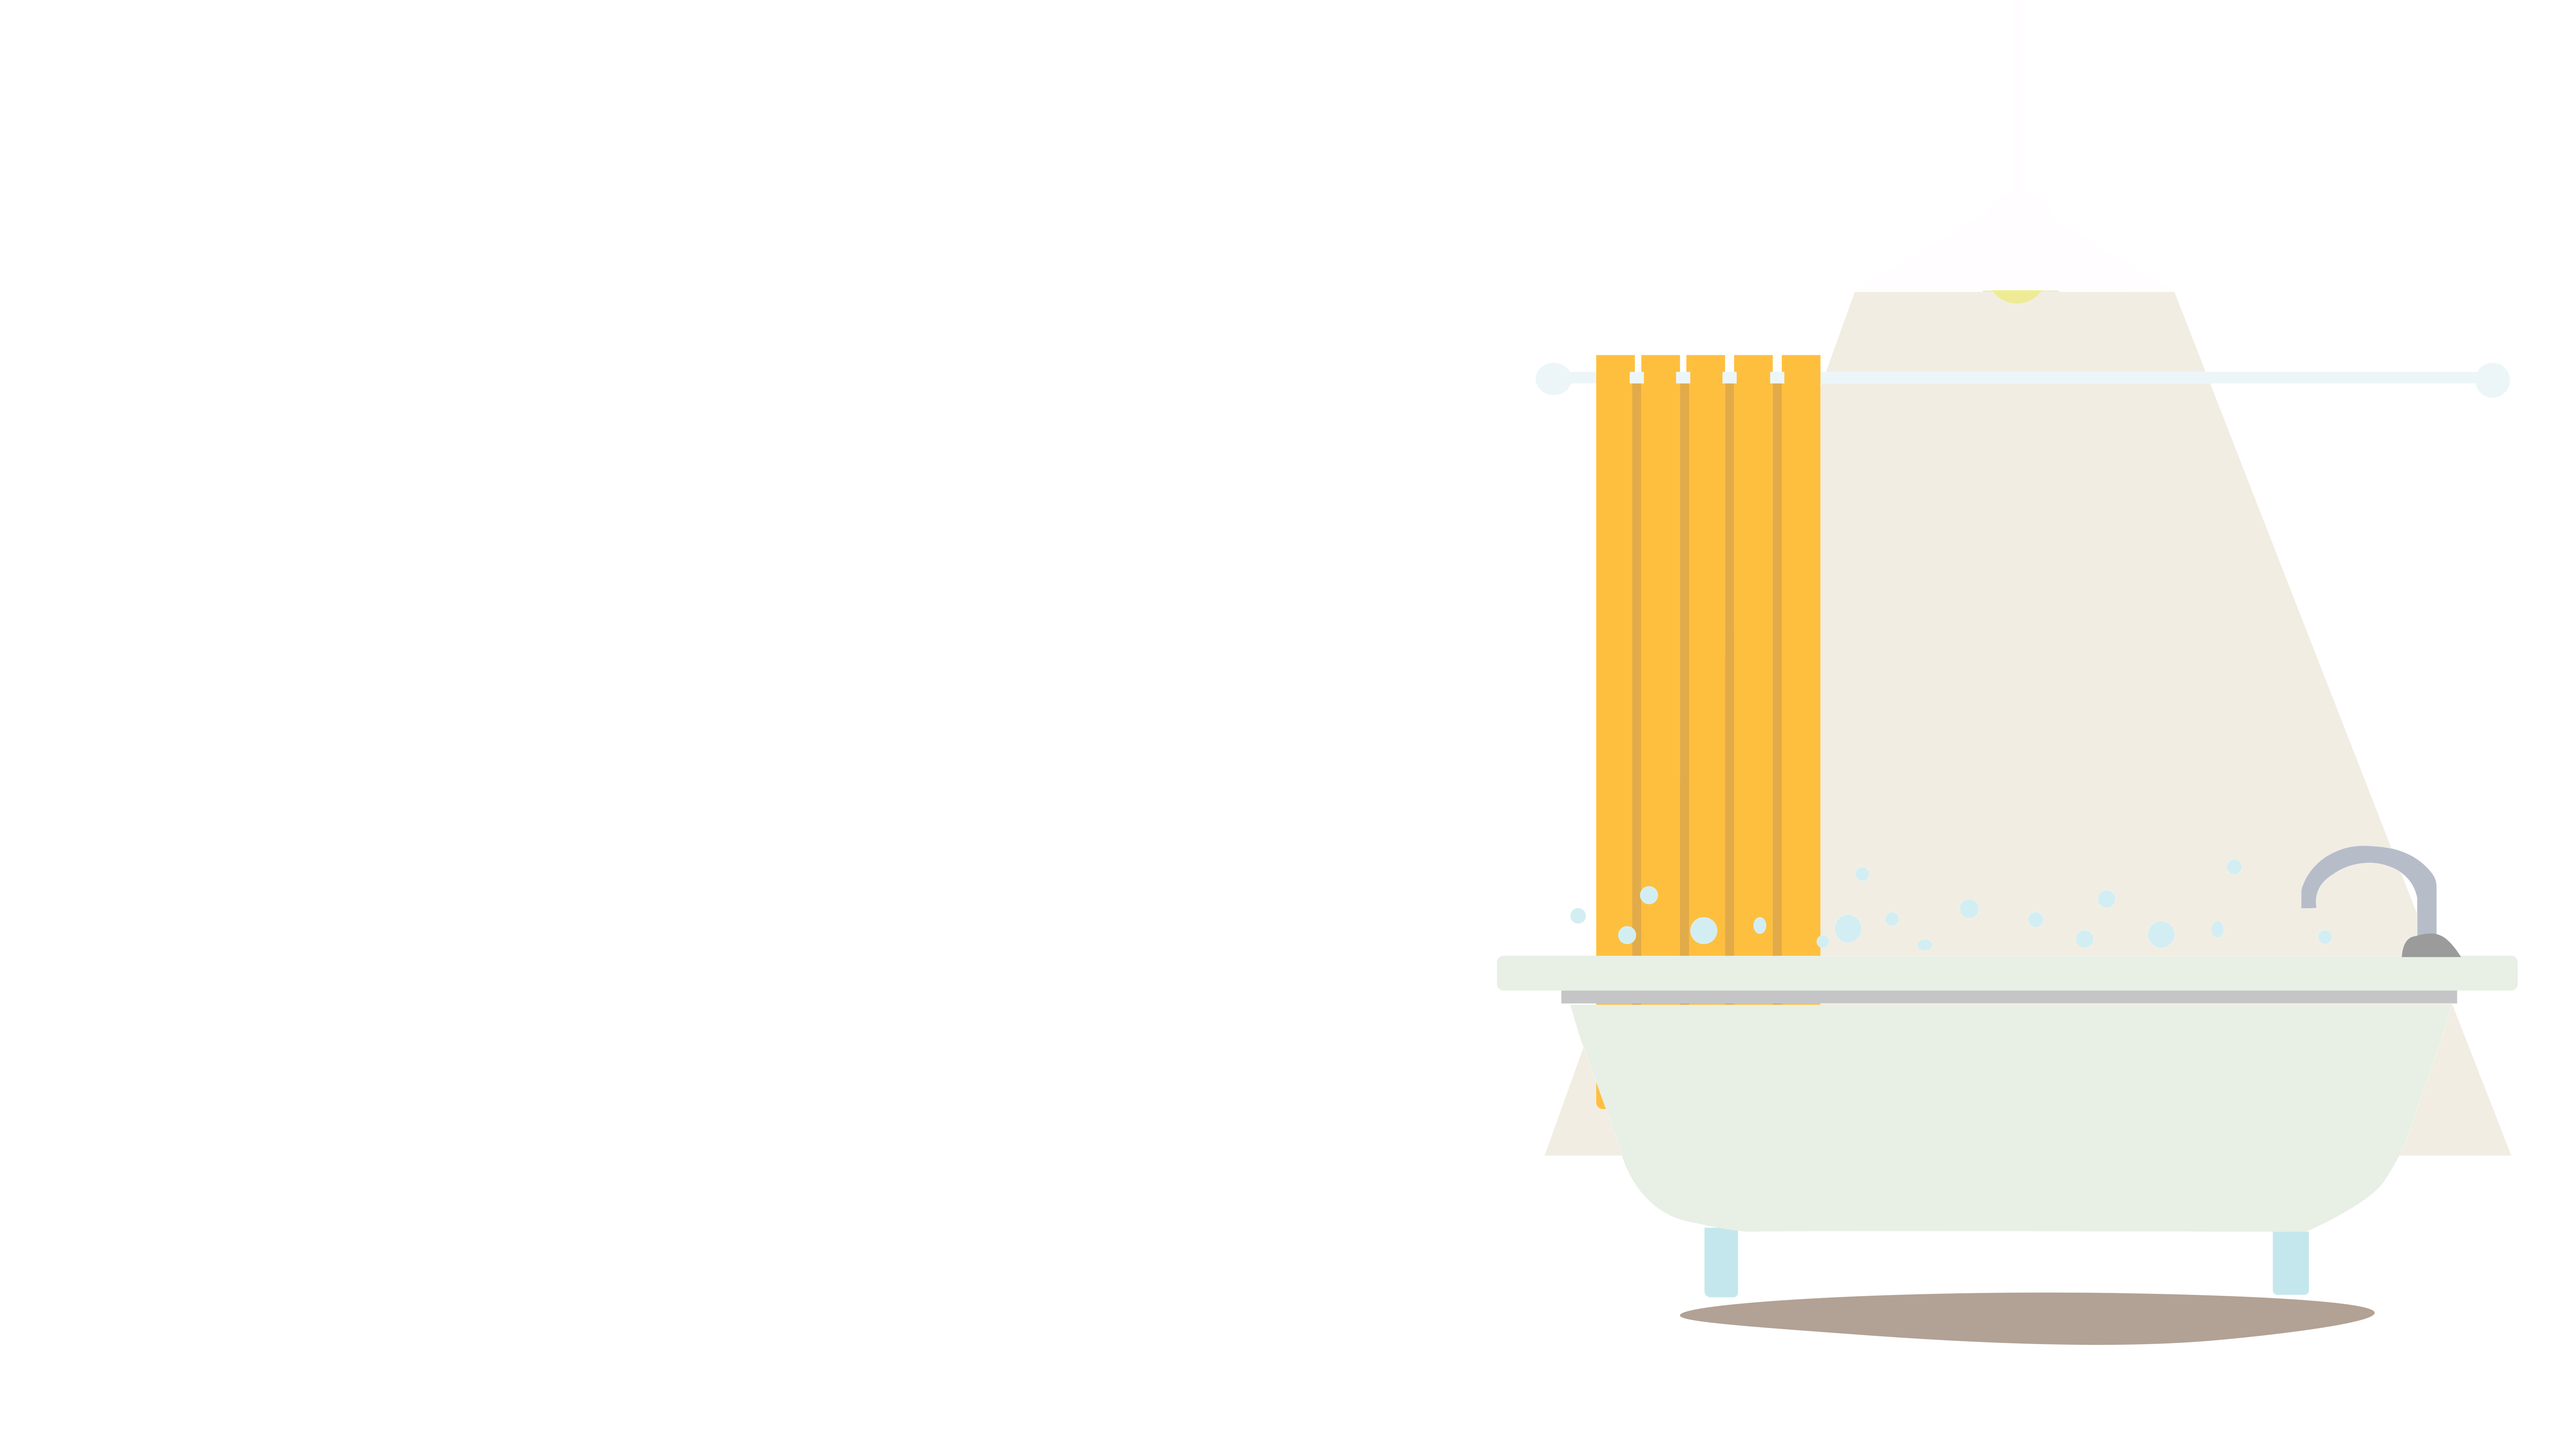
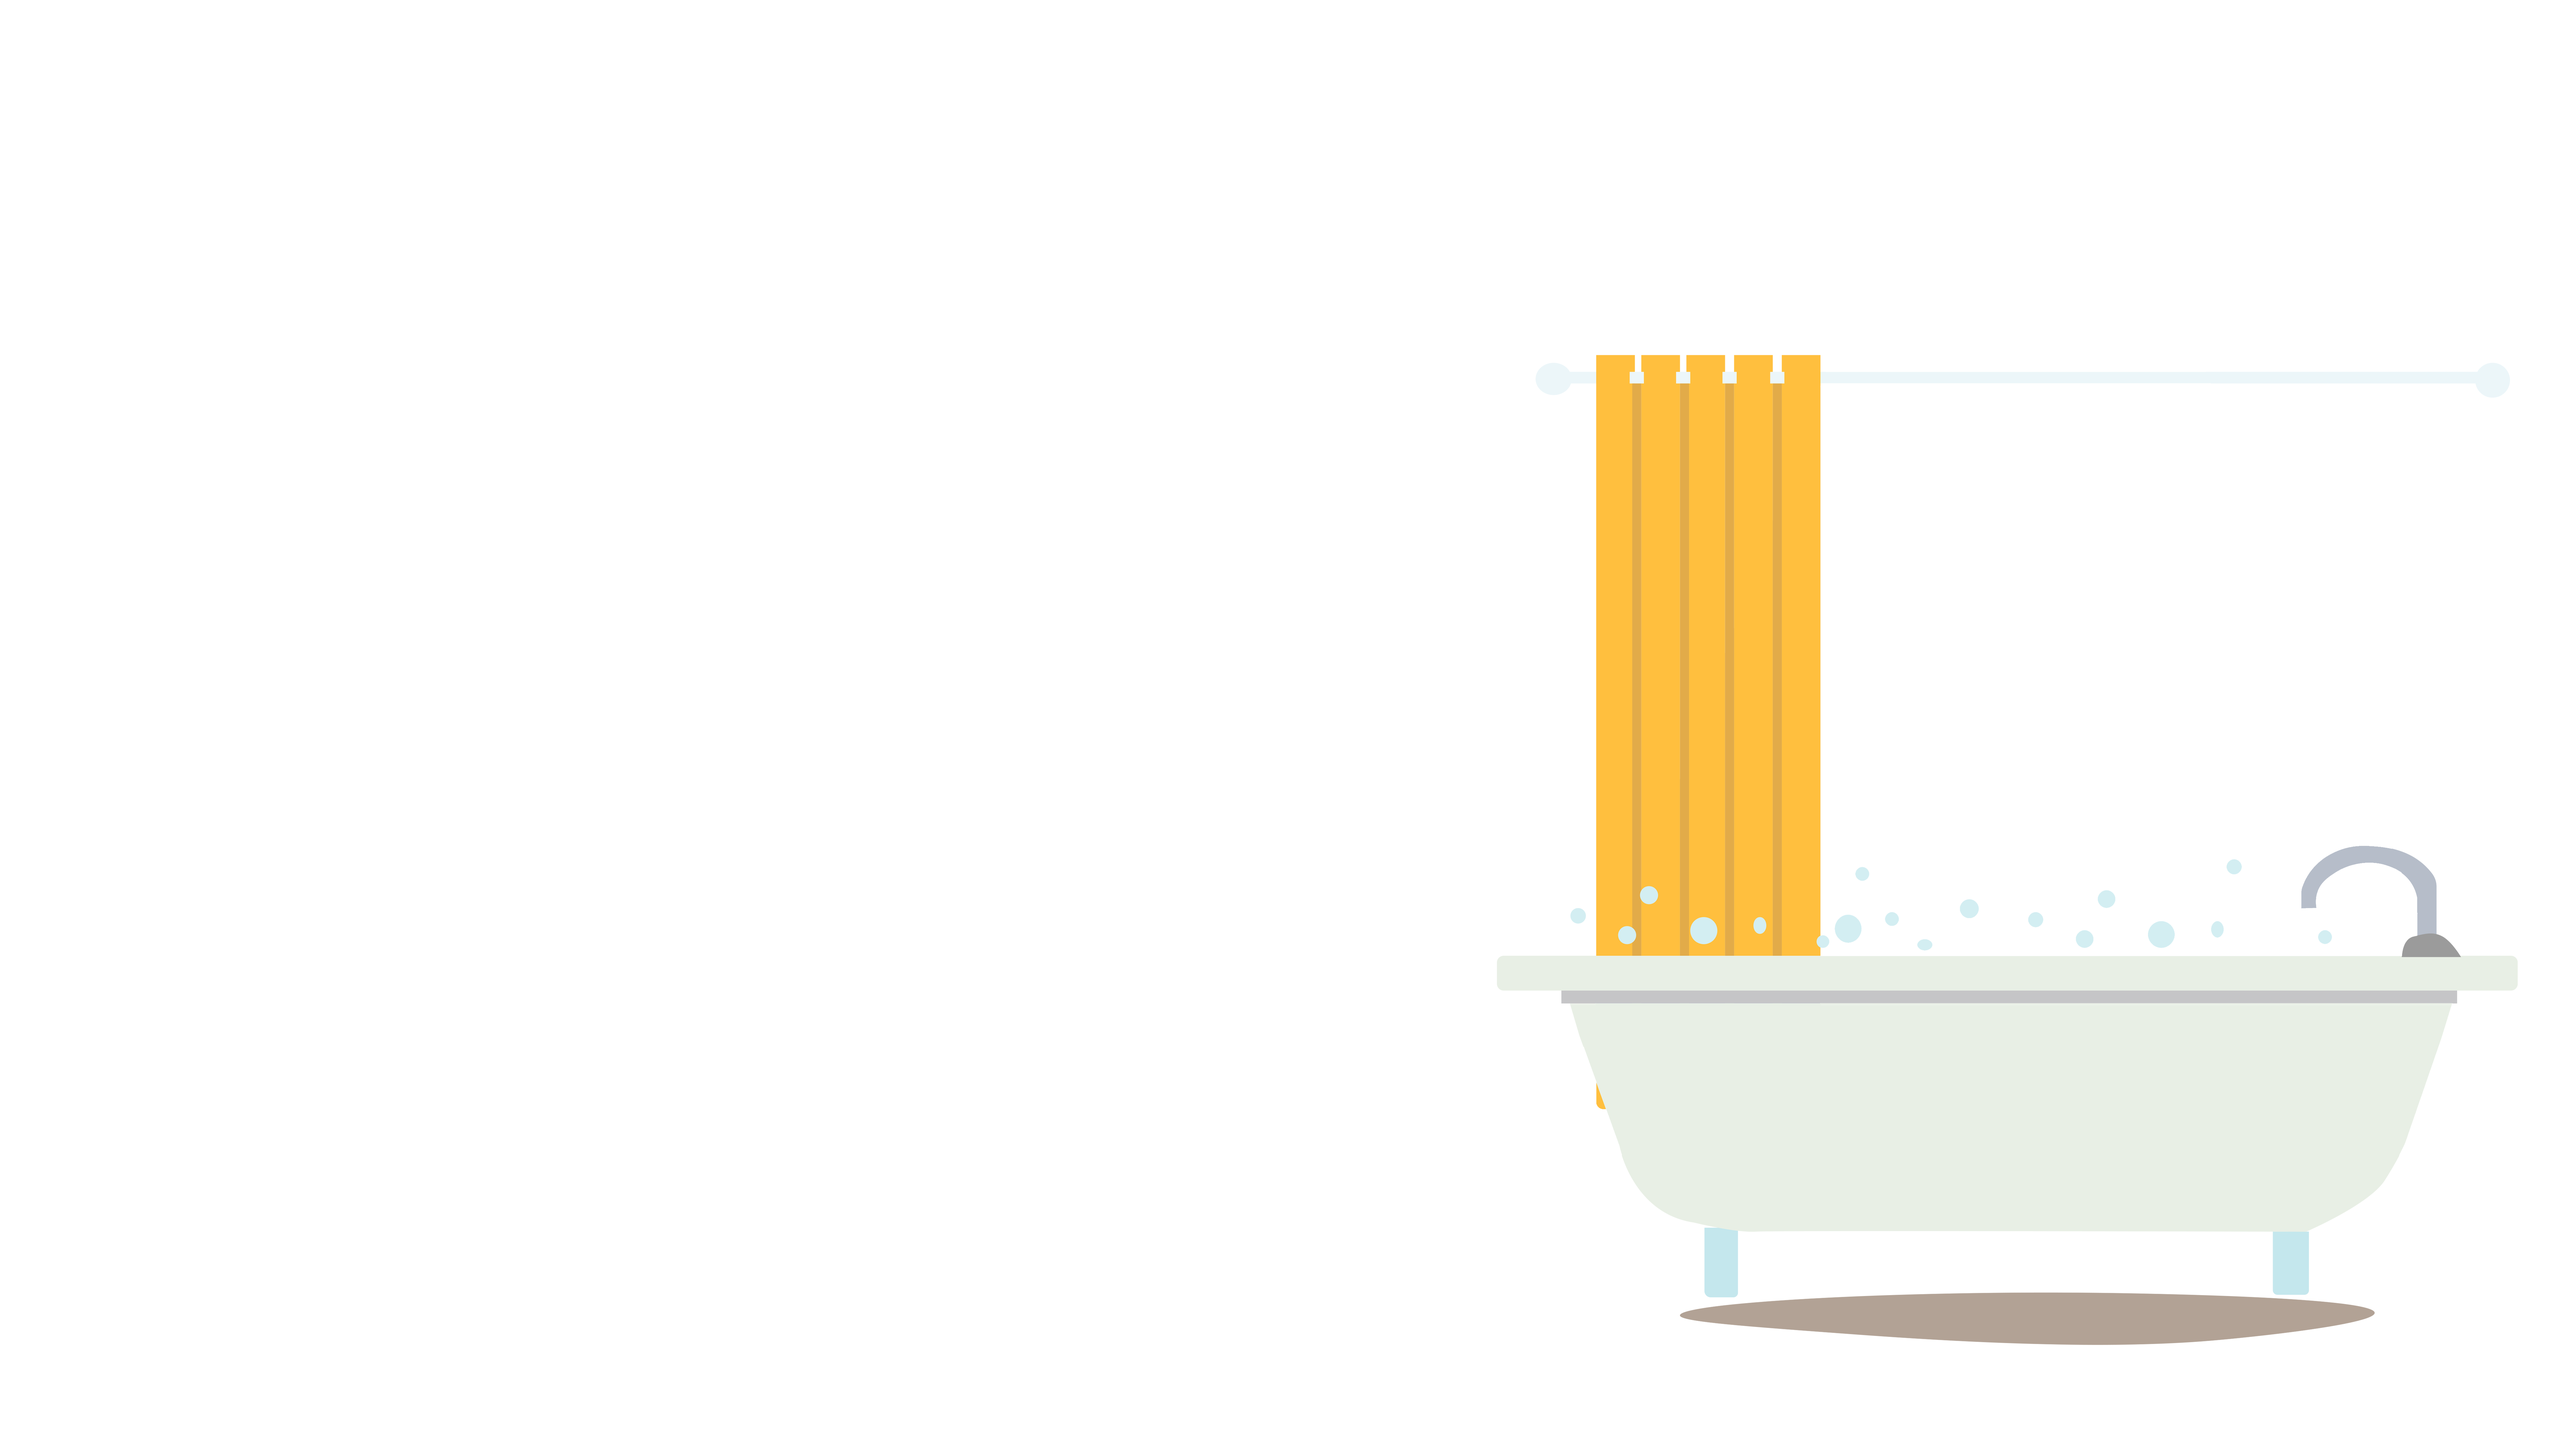
avancement sdb et correction pages php

Changed region(s): [[0.6875, 0.1867, 0.9375, 0.6844], [0.9375, 0.6844, 0.9688, 0.8089], [0.5938, 0.7156, 0.625, 0.8089]]

diff --git a/pages/salledebain/script.js b/pages/salledebain/script.js
@@ -1,35 +1,44 @@
 $(document).ready(function () {
-
-    $(':is(.douche,.baignoire)').css('opacity', '1');
+    $('button').css('opacity', '1');
+    const prenom = sessionStorage.getItem('prenom');
     setTimeout(() => {
         $('.douche').css("width", $('.baignoire').innerWidth() + "px")
-    }, 10);
+    }, 2000);
 
 
-    $('.elements *').click(function () {
+    $('.baignoire').add('.douche').click(function () {
         if ($(this).attr("class") == 'douche') {
-            $('.div1 p').html("Très bon choix ! La douche va économiser beaucoup plus d'eau contrairement à un bain !")
+            $('.div1 p').text(`Très bon choix ${prenom} ! La douche va économiser beaucoup plus d'eau contrairement à un bain !`);
+            $('.tochange').last().fadeOut("slow")
         } else if ($(this).attr("class") == 'baignoire') {
             $('.div1 p').text("La douche aurait économisé beaucoup plus d'eau contrairement à un bain, c'est dommage !")
+            $('.tochange').first().fadeOut("slow")
         }
-        const element = $(this).attr("class");
-        console.log(`url("../../ressources/salledebain/sdb${element}.png")`)
-        // $('body').css({
-        //     'background-image': `url("../../ressources/salledebain/salledebain${element}.png")`,
-        //     'background-size': 'contain',
-        //     'background-repeat': 'no-repeat',
-        //     'background-position-x': 'center',
-        //     'background-position-y': 'bottom'
-        // })
-        $('.tochange').attr('src',`../../ressources/salledebain/sdb${element}.png`)
-        setTimeout(() => {
-            $(`.choix`).css('opacity', '0')
-            setTimeout(() => {
-                $(`.choix`).remove()
-            }, 2000);
-        }, 500)
+
+        $(':is(.douche, .baignoire)').fadeOut("slow", () => {
+            $('.valid').fadeIn("slow");
+        });
+
     })
 
+    var rep = 0;
+    $('.valid').click(() => {
+        if (rep == 0) {
+            $('.valid').fadeOut("slow");
+            rep = 1;
+            $('#port').css({
+                'transition-duration': '1s',
+                'transform': 'scale(2)'
+            })
+        }
+    })
+    $('body').click(() => {
+        // if (rep == 1) {
+        //     $('#port').css({
+        //         'transform': 'scale(1)'
+        //     })
+        // }
+    })
 
 
 })

diff --git a/pages/salledebain/index.html b/pages/salledebain/index.html
@@ -12,18 +12,27 @@
 
 <body>
     <div id="port">
-        <img src="../../ressources/salledebain/fondsdb.png" class="parallax-layer" style="width:100vw; height:100vh;" alt="">
-        <img src="../../ressources/salledebain/elementssdb.png" class="parallax-layer" style="width:100.25vw; height:100.25vh;"
+        <img src="../../ressources/salledebain/fondsdb.png" class="parallax-layer" style="width:105vw; height:100vh;"
             alt="">
-        <img src="../../ressources/salledebain/douchebaignoire.png" style="width:100.5vw; height:100.5vh;" class="parallax-layer tochange"
+        <img src="../../ressources/salledebain/elementssdb.png" class="parallax-layer"
+            style="width:110vw; height:100vh;" alt="">
+        <img src="../../ressources/salledebain/sdbdouche.png" style="width:120vw; height:120vh;"
+            class="parallax-layer tochange" alt="">
+        <img src="../../ressources/salledebain/sdbbaignoire.png" style="width:120vw; height:120vh;"
+            class="parallax-layer tochange" alt="">
+        <img src="../../ressources/salledebain/lumiere.png" style="width:120vw; height:120vh;" class="parallax-layer"
             alt="">
     </div>
 
     <div id="fond">
         <div class="choix">
             <div class="elements">
+                <button class="valid" style="display: none;">D'accord</button>
                 <button class="douche">La douche</button>
                 <button class="baignoire">La baignoire</button>
+                <button class="laisser" style="display: none;">Laisser l'eau couler</button>
+                <button class="fermer" style="display: none;">Fermer le robinet</button>
+                <button class="eteindre" style="display: none;">Éteindre la lumière</button>
             </div>
         </div>
         <div class="persolif">
@@ -37,7 +46,7 @@
 
         </div>
     </div>
-    
+
 
 
     <script src="https://code.jquery.com/jquery-3.5.1.js"
@@ -52,6 +61,10 @@
                 yparallax: false
             }, {
                 yparallax: '1px'
+            }, {
+                yparallax: '2px'
+            }, {
+                yparallax: '2px'
             }, {
                 yparallax: '2px'
             });

diff --git a/pages/presentation/script.js b/pages/presentation/script.js
@@ -1,1 +1,14 @@
-$(".transition-in").css("transform","translateY(-125vh)");
+$(".transition-in").css("transform", "translateY(-125vh)");
+
+// $(".formulaire").submit(function (e) {
+//     e.preventDefault();
+
+// });
+
+// function redirect() {
+//     location.href = "../presentation_lif/presentation_lifSite.php";
+// }
+
+$('.button').mousedown(()=>{
+    sessionStorage.setItem('prenom', $('#prenom').val())
+})

diff --git a/pages/salledebain/style.css b/pages/salledebain/style.css
@@ -5,7 +5,11 @@ body {
 .choix {
   height: 100vh;
   width: 100vw;
-  transition-duration: 2s;
+  transition-duration: 1s;
+}
+
+.persolif p {
+  width: 80%;
 }
 
 .elements {
@@ -27,7 +31,7 @@ body {
 }
 
 .div2 {
-  background-image: url("../../ressources/lif/lifngauche.png");
+  background-image: url("../../ressources/lif/lifsale.png");
 }
 
 #port {

diff --git a/pages/presentation_lif/script.js b/pages/presentation_lif/script.js
@@ -1,1 +1,3 @@
 $(".transition-in").css("transform","translateY(-125vh)");
+const prenom = sessionStorage.getItem('prenom');
+$('.prenom').text(prenom);

diff --git a/pages/presentation/presentationSite.php b/pages/presentation/presentationSite.php
@@ -1,0 +1,67 @@
+<!DOCTYPE html>
+<html lang="fr">
+
+<head>
+    <meta charset="UTF-8">
+    <meta name="viewport" content="width=1.0, initial-scale=1.0">
+    <link href="https://fonts.googleapis.com/css2?family=Bellota:ital,wght@0,400;1,700&display=swap" rel="stylesheet">
+    <link rel="stylesheet" href="style.css">
+    <link rel="stylesheet" href="../../global.css">
+    <link rel="icon" type="image/png" href="../../ressources/lif/lifndroite.png" />
+    <title>Ecokid</title>
+</head>
+
+<body>
+    <?php
+    $db = new PDO('mysql:host=localhost;dbname=ecokid', 'root', '');
+
+    // if (isset($_POST['user'])) {
+    //     $age = $_POST["age"];
+    //     $sql = "INSERT INTO user(prenom, age) VALUES (Aubin,{$age})";
+    //     $req = $db->prepare($sql);
+    //     $req->execute();
+    //     header('Location: fight.php');
+    // }
+
+    if (isset($_POST['user'])) {
+        $sql = "INSERT INTO user(age) VALUES ({$_POST['age']})";
+        $req = $db->prepare($sql);
+        $req->execute();
+        header('Location: ../presentation_lif/presentation_lifSite.php');
+    }
+
+
+    ?>
+
+    <video muted autoplay loop src="../../ressources/accueil.webm" type="video/webm" poster="../../ressources/accueil.jpg" id="accueil"></video>
+    <img id="logo" src="../../ressources/logo.png" alt="">
+
+    <div id="avertissement">
+        <p>Attention, ce site n'est visible qu'en mode paysage !</p>
+        <img class="turn" src="../../ressources/turntel.png" alt="">
+    </div>
+
+
+    <form method="post" action="" class="formulaire">
+        <img src="../../ressources/nuagePresentation.png" alt="" class="nuage">
+
+        <label for="prenom">
+            <h1>Quel est ton prénom ?</h1>
+        </label>
+        <input type="text" name="prenom" id="prenom" required>
+
+
+        <label for="age">
+            <h2>Quel âge as-tu ?</h2>
+        </label>
+        <input type="text" maxlength="2" name="age" id="age" pattern="[0-9]{1,2}" required>
+
+        <input type="submit" name="user" class="lien button" value="Commencer à jouer">
+
+    </form>
+
+    <script src="https://ajax.googleapis.com/ajax/libs/jquery/3.1.0/jquery.min.js"></script>
+    <script src="script.js"></script>
+</body>
+
+</html>

diff --git a/pages/presentation_lif/presentation_lifSite.php b/pages/presentation_lif/presentation_lifSite.php
@@ -1,0 +1,38 @@
+<!DOCTYPE html>
+<html lang="fr">
+
+<head>
+    <meta charset="UTF-8">
+    <meta name="viewport" content="width=1.0, initial-scale=1.0">
+    <link href="https://fonts.googleapis.com/css2?family=Bellota:ital,wght@0,400;1,700&display=swap" rel="stylesheet">
+    <link rel="stylesheet" href="style.css">
+    <link rel="stylesheet" href="../../global.css">
+    <link rel="icon" type="image/png" href="../../ressources/lif/lifndroite.png" />
+    <title>Ecokid</title>
+</head>
+
+<body>
+    <img id="logo" src="../../ressources/logo.png" alt="">
+
+    <div id="avertissement">
+        <p>Attention, ce site n'est visible qu'en mode paysage !</p>
+        <img class="turn" src="../../ressources/turntel.png" alt="">
+    </div>
+    <img src="../../ressources/Accueil3.png" alt="" class="background">
+    <img src="../../ressources/lif/lifndroite.png" alt="" class="lif">
+    <div class="texte">
+        <img src="../../ressources/nuagePresentationLIF.png" alt="" class="nuage">
+        <p>Salut <span class="prenom"></span> ! Moi c’est Lif aide nous à guérrir ce monde</p>
+    </div>
+    <div class="button">
+        <a href="../enAvant_lif/enAvant_lif.html" class="lien">
+            Commencer à jouer
+        </a>
+    </div>
+
+    <script src="https://ajax.googleapis.com/ajax/libs/jquery/3.1.0/jquery.min.js"></script>
+    <script src="script.js"></script>
+    
+</body>
+
+</html>

diff --git a/pages/presentation/presentation.php b/pages/presentation/presentation.php
@@ -42,7 +42,7 @@
     </div>
 
 
-    <form method="POST" class="formulaire">
+    <form method="POST" action="" class="formulaire">
         <img src="../../ressources/nuagePresentation.png" alt="" class="nuage">
         <h1>Quel est ton prénom ?</h1>
         <label for="prenom"></label>
